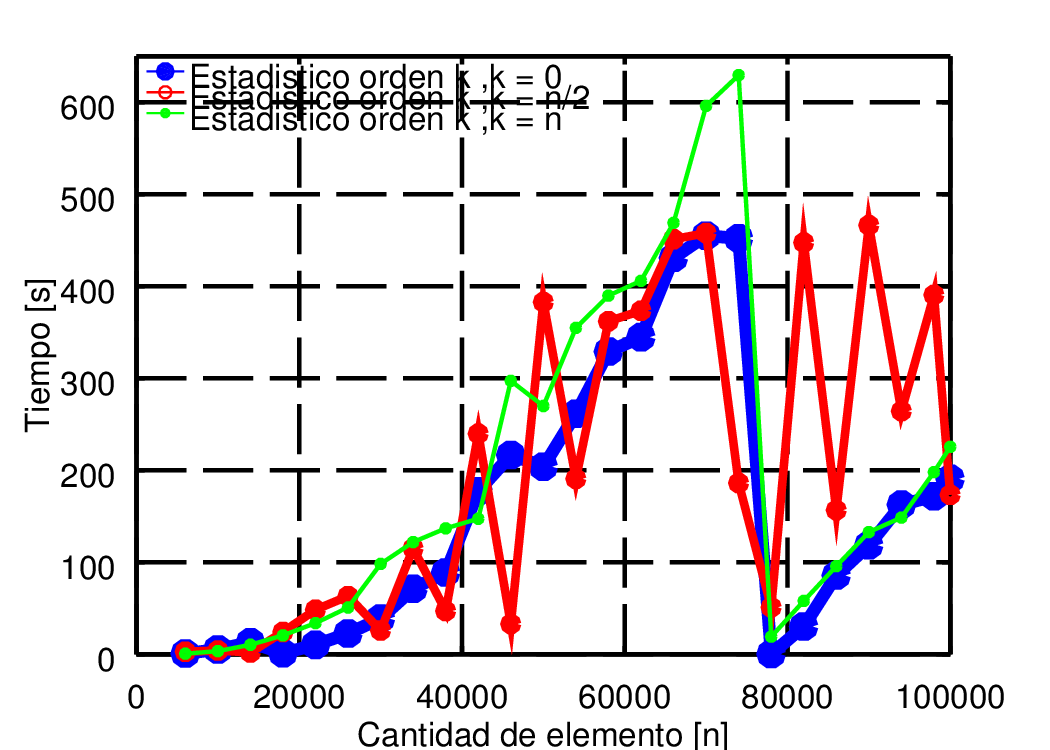
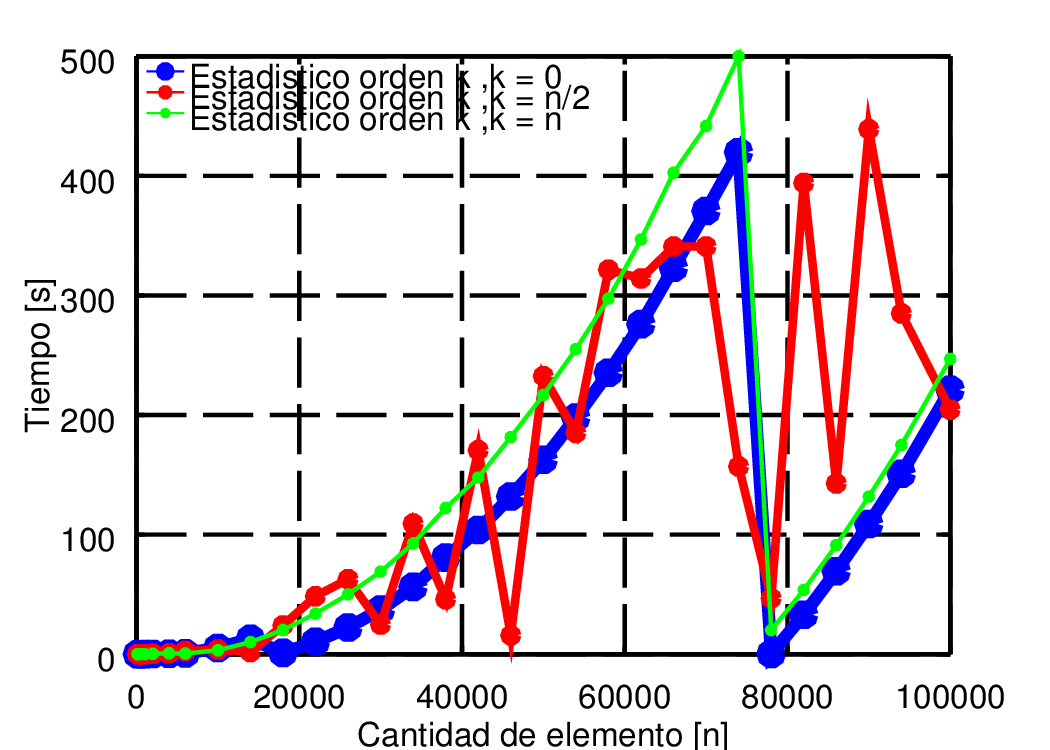
Gráficos actualizados

diff --git a/estadistico de orden k/graficos/sorted.m b/estadistico de orden k/graficos/sorted.m
@@ -10,12 +10,13 @@ set(Ha,'Box','on','FontName','Arial','FontSize',8,'GridLineStyle','--','LineWidt
 grid on
 hold on
 
-SIM = dlmread("fuerza bruta.txt","\t",1,0);
+SIM = dlmread("datos/fuerza_bruta.txt","\t",1,0)
 
 plot(Ha,SIM(:,1),SIM(:,2),'-bo','linewidth',3,'markersize',4,'markerfacecolor','b');
-plot(Ha,SIM(:,1),SIM(:,3),'-ro','linewidth',2,'MarkerSize',3,'makerfacecolor','r');
+plot(Ha,SIM(:,1),SIM(:,3),'-ro','linewidth',2,'markersize',3,'markerfacecolor','r');
 plot(Ha,SIM(:,1),SIM(:,4),'-go','linewidth',1,'markersize',2,'markerfacecolor','g');
-axis([0 100000 0 650]);
+
+%axis([0 100000 0 650]);
 
 ylabel('Tiempo [s]');
 xlabel('Cantidad de elemento [n]');
